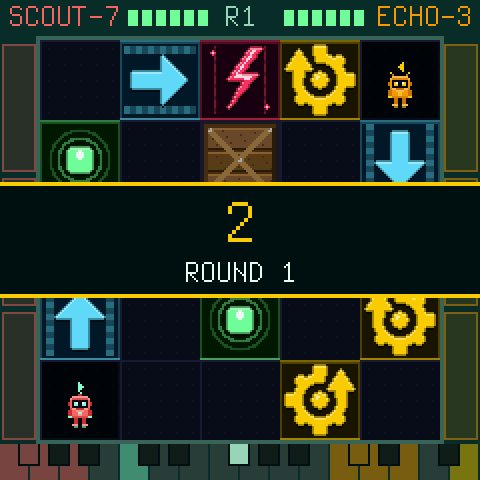
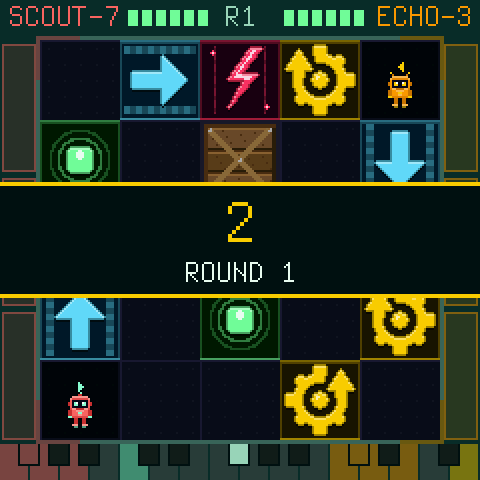
The battle's beat and strike in the board's own art, not white bars (D42)
The product owner: the white bars did not fit the design. On the beat the
arena's frame now lights mint and the splash's corners in each robot's colour
(Scout-7's side red, Echo-3's orange; dim between the beats). A strike is three
chevrons the way it struck, in the striker's colour, outlined and lit as the
step icons, brighter to the front, the front one white on a hit. make test
(P4 BATTLE: 11 keys, 8 move the robots, 0 unclear) and make emu pass.

diff --git a/firmware/src/rs_battle_screen.c b/firmware/src/rs_battle_screen.c
@@ -16,6 +16,37 @@ static void bt_banner(const char *big, const char *small, uint16_t c)   /* a ban
     if (small) cv_text(120 - text_w(&FONT_S, small) / 2, y + 38, &FONT_S, small, C_TEXT);
 }
 
+static void bt_chevron(int32_t cx, int32_t cy, uint32_t dir, uint16_t c)   /* a chevron pointing dir, its tip at cx, cy:
+                                                                          * 3 px thick, 7 px each side, outlined, its
+                                                                          * front edge lit (the step icons' way) */
+{
+    uint16_t lit = mix565(C_WHITE, c, 120);
+    for (int pass = 0; pass < 2; pass++)        /* the outline under it all, then the body */
+        for (int32_t i = -7; i <= 7; i++)
+            for (int32_t d = 0; d < 3; d++) {
+                int32_t a = -(i < 0 ? -i : i) - d, x, y;   /* back from the tip as it widens, d into the stroke */
+                if (dir == RS_E) x = cx + a, y = cy + i;
+                else if (dir == RS_W) x = cx - a, y = cy + i;
+                else if (dir == RS_S) x = cx + i, y = cy + a;
+                else x = cx + i, y = cy - a;
+                if (pass == 0) cv_rect(x - 1, y - 1, 3, 3, RGB(0x05, 0x05, 0x0c));
+                else cv_pset(x, y, d == 0 ? lit : c);
+            }
+}
+
+static void bt_corners(int on_beat)             /* the arena's corners, as the splash's: Scout-7's side red, Echo-3's
+                                                 * orange; lit on the beat */
+{
+    static const int32_t X0 = BX - 2, Y0 = BY - 2, S = 5 * CELL + 4, ARM = 22, T = 3;   /* (a pixel into the arena) */
+    for (int b = 0; b < 2; b++) {
+        uint16_t c = b ? C_BOT_B : C_BOT_A;
+        int32_t x = b ? X0 + S - ARM : X0, xv = b ? X0 + S - T : X0;
+        if (!on_beat) c = mix565(c, C_BG, 110);
+        cv_rect(x, Y0, ARM, T, c), cv_rect(xv, Y0, T, ARM, c);                  /* the top corner */
+        cv_rect(x, Y0 + S - T, ARM, T, c), cv_rect(xv, Y0 + S - ARM, T, ARM, c);   /* the bottom one */
+    }
+}
+
 static void bt_score(int b, uint32_t wins, uint32_t to_win)   /* a robot's score bar down its side of the arena (where
                                                                * HOME shows its register): a segment a round to win,
                                                                * lit from the bottom as it takes them */
@@ -141,9 +172,11 @@ static void draw_battle(const struct rs_view *v, const struct rs_fx *fx, uint32_
         cv_text(120 - text_w(&FONT_S, mid) / 2, 1, &FONT_S, mid, hot ? C_DANGER : C_MUTED);
     }
     bt_score(0, live ? t->wins[0] : 0, goal), bt_score(1, live ? t->wins[1] : 0, goal);
-    /* the arena; its frame flashes on the beat (what the robots step to) */
+    /* the arena; its frame flashes on the beat (what the robots step to): the line mint, the splash's corners lit in
+     * each robot's colour on its side */
     int on_beat = live && t->phase == RS_BT_FIGHT && v->step >= 0 && v->step % beat == 0;
-    frame(BX - 2, BY - 2, 5 * CELL + 4, 5 * CELL + 4, 2, on_beat ? C_WHITE : mix565(C_MUTED, C_BG, 90));
+    frame(BX - 2, BY - 2, 5 * CELL + 4, 5 * CELL + 4, 2, on_beat ? mix565(C_ACCENT, C_BG, 170) : mix565(C_MUTED, C_BG, 90));
+    bt_corners(on_beat);
     for (int i = 0; i < RS_ROWS * RS_COLS; i++) {
         int32_t x = BX + (i % RS_COLS) * CELL, y = BY + (i / RS_COLS) * CELL;
         draw_tile(x, y, &v->board.t[i]);
@@ -163,10 +196,16 @@ static void draw_battle(const struct rs_view *v, const struct rs_fx *fx, uint32_
         dim_cell(x, y);
         draw_bot(sx + 1, y + 16, b, 1, C_CELL);
         draw_arrow_at(sx + 10, y + 13, r->dir, b ? C_WARN : C_ACCENT);
-        if (live && t->did[b] == RS_BT_STRIKE && v->step % beat == 0) {   /* the strike: a flash the way it faces */
+        if (live && t->did[b] == RS_BT_STRIKE && v->step % beat == 0) {   /* the strike: chevrons the way it faces, in
+                                                                           * its colour, brighter to the front; a hit's
+                                                                           * front one white */
             int32_t cx = x + CELL / 2, cy = y + CELL / 2, dx = DX[t->sdir[b] & 3], dy = DY[t->sdir[b] & 3];
-            uint16_t c = t->hit[b] ? C_WHITE : b ? C_BOT_B : C_BOT_A;
-            for (int32_t k = 14; k < CELL + 10; k++) cv_rect(cx + dx * k - (dy ? 3 : 1), cy + dy * k - (dx ? 3 : 1), dy ? 7 : 3, dx ? 7 : 3, c);
+            uint16_t c = b ? C_BOT_B : C_BOT_A;
+            for (int32_t n = 0; n < 3; n++) {
+                uint16_t cn = n == 0 ? mix565(c, C_CELL, 150) : n == 1 ? c : t->hit[b] ? C_WHITE : mix565(C_WHITE, c, 80);
+                int32_t k = 22 + 10 * n;            /* the tips 22, 32 and 42 px on: to the next tile's middle */
+                bt_chevron(cx + dx * k, cy + dy * k, t->sdir[b] & 3u, cn);
+            }
         }
         if ((int32_t)(fx->clash_until[b] - now_ms) > 0) draw_clash(sx, y + 1, 2);   /* hit: the star */
     }

diff --git a/docs/roboseq/DECISIONS.md b/docs/roboseq/DECISIONS.md
@@ -744,6 +744,10 @@ it); rounds, then "<robot> wins" with the winning robot's picture. Along the way
 - **The fight** shows the names with the round between them, the score bars down the sides, the arena whose frame
   flashes on the beat, a strike's flash the way it struck (white on a hit), the star on the one hit, and the
   overheat's glowing tiles. Each robot's life is at the foot.
+- **Later (2026-11-08), in the board's own art:** the product owner found the white bars (the beat's frame, the
+  strike) out of the design. On the beat the frame lights mint and the splash's corners in each robot's colour
+  (Scout-7's side red, Echo-3's orange; dim between the beats); a strike is three chevrons the way it struck, in the
+  striker's colour, outlined and lit as the step icons, brighter to the front, the front one white on a hit.
 - **The banners:** the countdown, the round taken (or the draw, or the coin).
 - **The winner:** its robot, 128 px, "<NAME> WINS!", the score and "PLAY: AGAIN".
 
